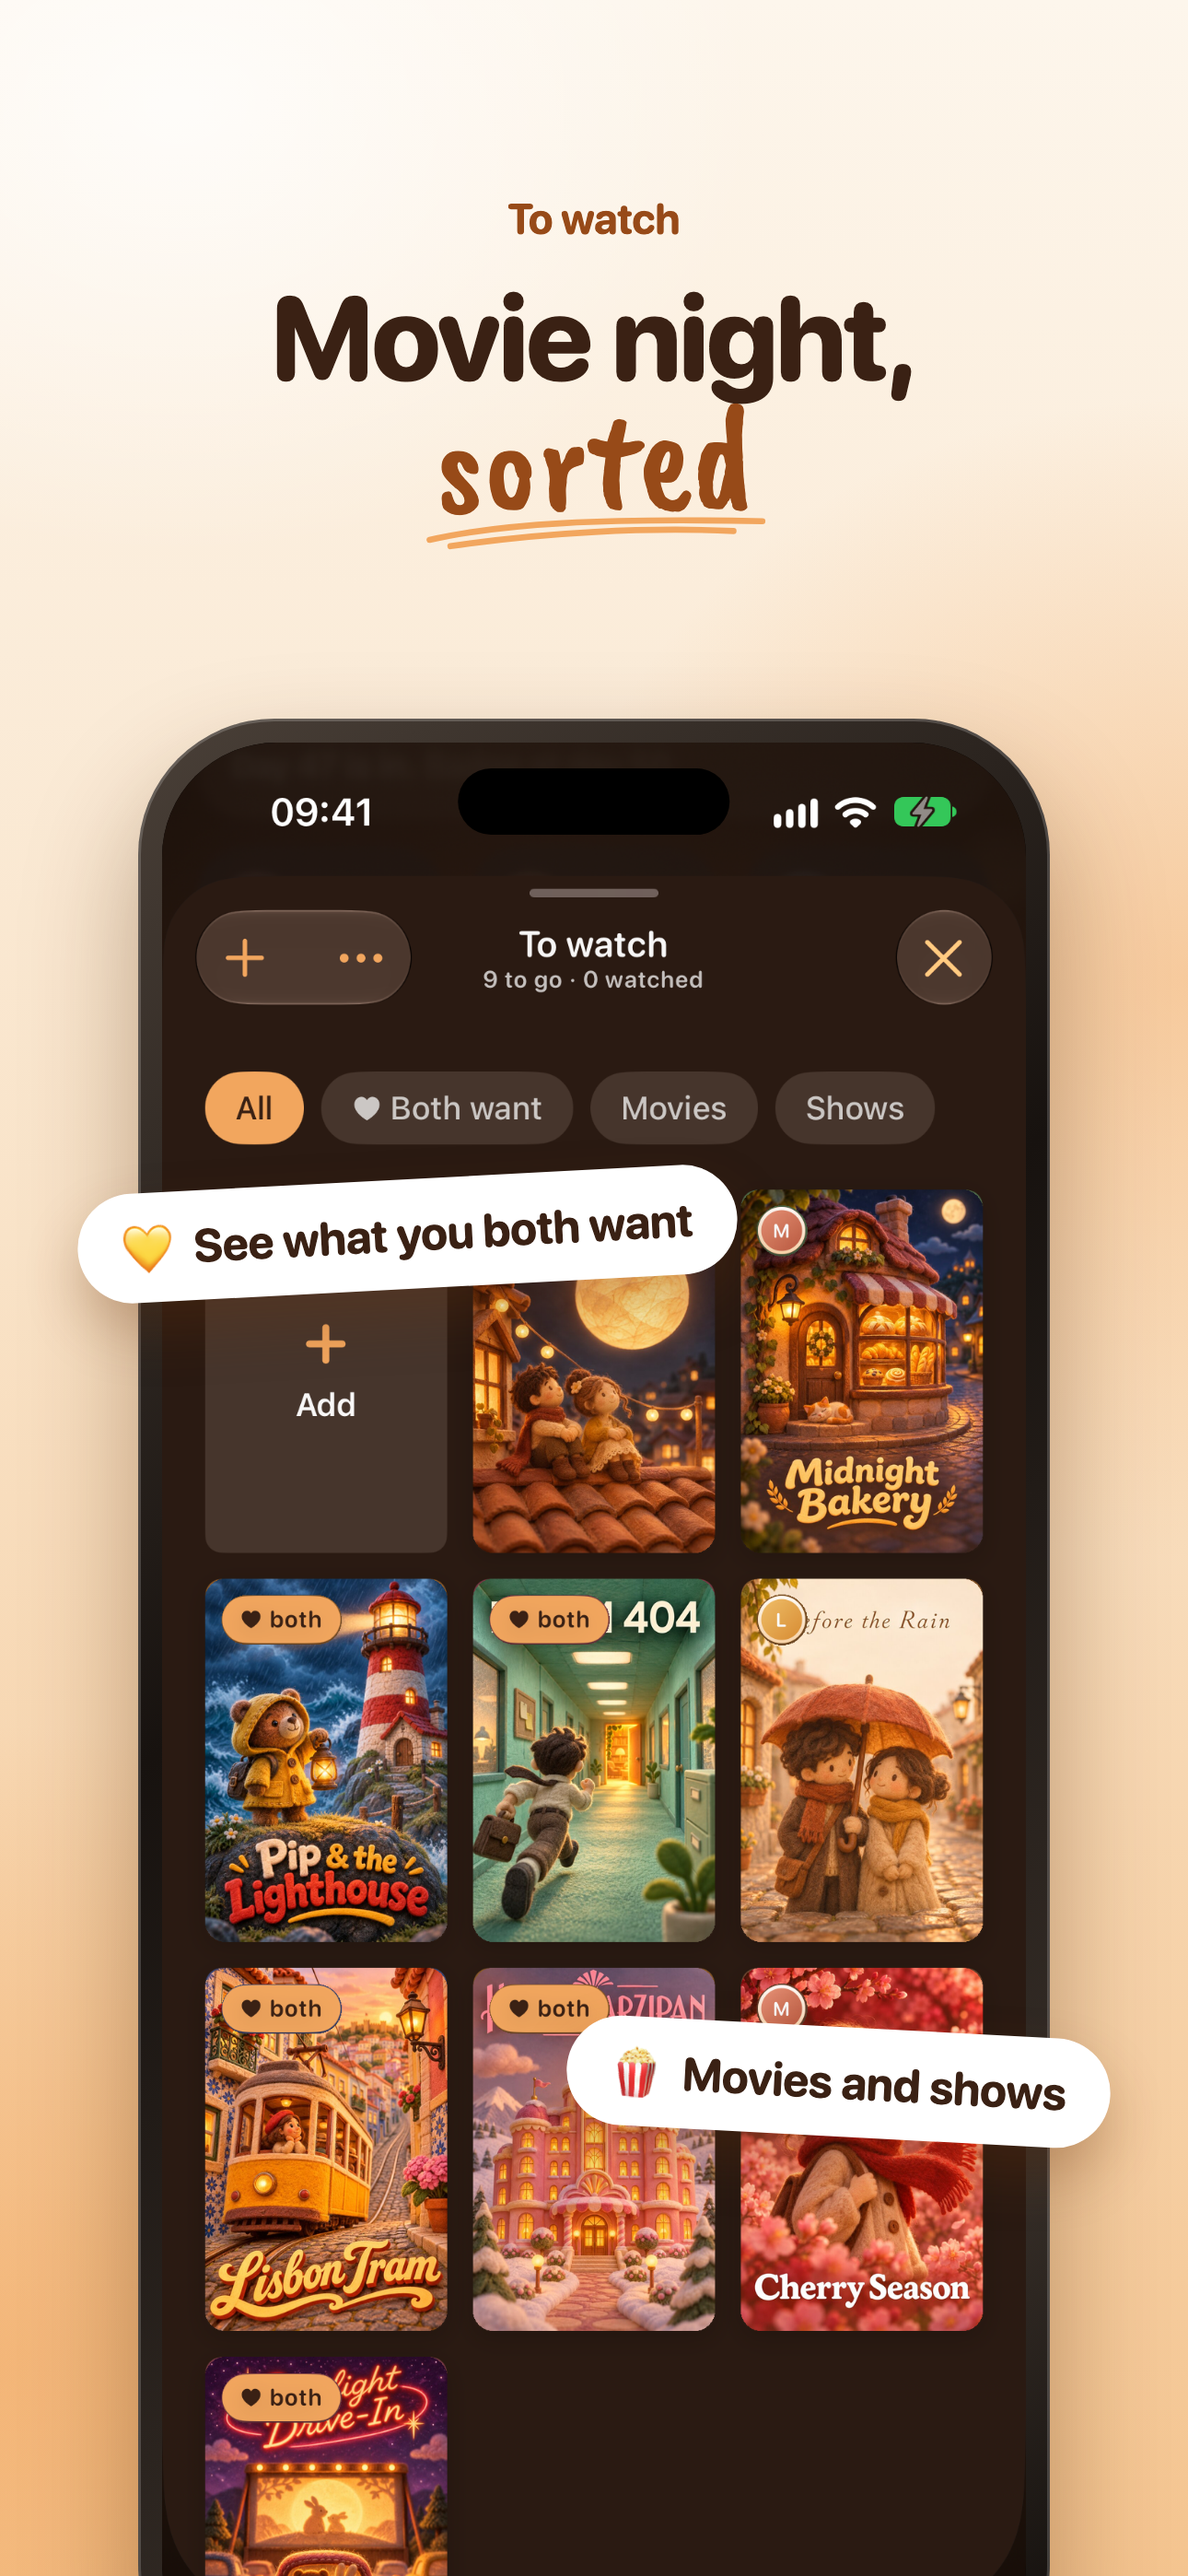
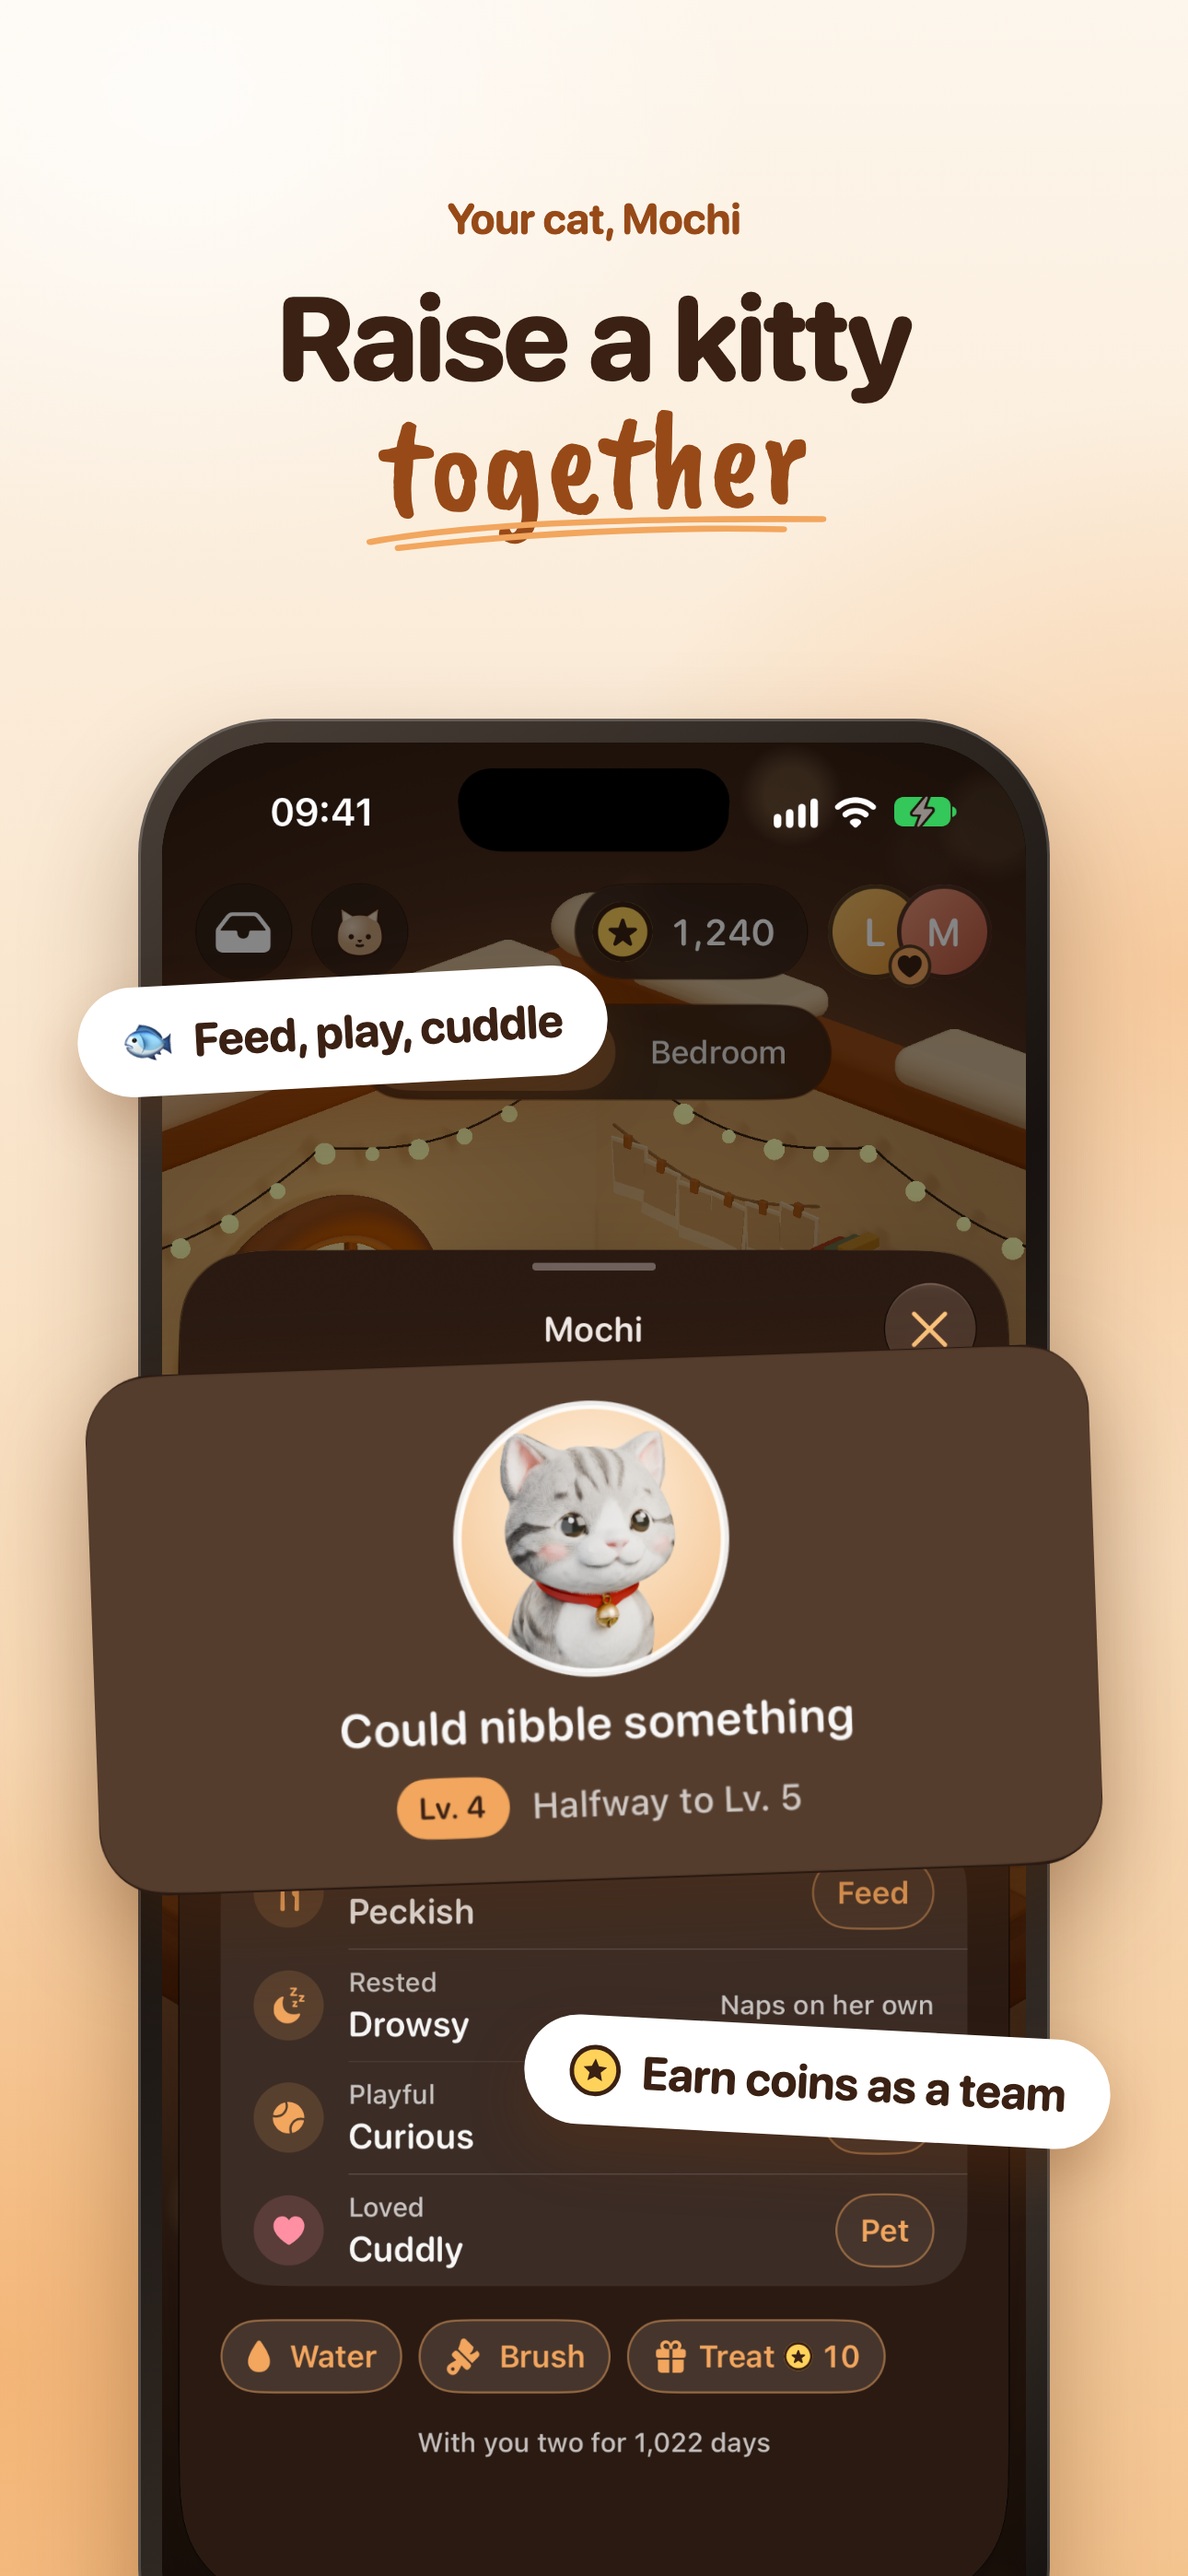
docs(app-store): order the screenshots by feature priority and rewrite the captions
Streak and Moments move up to shots 2 and 3, the ones search results show;
groceries moves to 7. Captions lead with what the couple gets.

diff --git a/docs/images/app-store/source/index.html b/docs/images/app-store/source/index.html
@@ -282,18 +282,46 @@
       <!-- 1 · what it is: a little home the two of you share -->
       <section class="slide night" id="s1">
         <div class="copy">
-          <div class="eyebrow">For the two of you</div>
-          <h1>A tiny home<br />just for <span class="s">us two</span></h1>
+          <div class="eyebrow">Just the two of you</div>
+          <h1>A cozy home<br />for <span class="s">us two</span></h1>
         </div>
         <div class="phone">
           <div class="screen"><img src="assets/home.png" /></div>
         </div>
-        <div class="chip l b0 t1"><span class="em">🏡</span>One shared room</div>
-        <div class="chip r b1 t2"><span class="em">💛</span>Always in sync</div>
+        <div class="chip l b0 t1"><span class="em">🏡</span>Your own little room</div>
+        <div class="chip r b1 t2"><span class="em">💛</span>Live on both phones</div>
       </section>
-
-      <!-- 2 · the pet you raise together -->
+      <!-- 2 · days together and the streak -->
       <section class="slide" id="s2">
+        <div class="copy">
+          <div class="eyebrow">Daily love streak</div>
+          <h1>Keep the<br /><span class="s">spark</span> alive</h1>
+        </div>
+        <div class="phone">
+          <div class="screen"><img src="assets/us.png" /></div>
+        </div>
+        <div class="float pop" style="width: 1100px; left: 95px; top: 1054px">
+          <img src="assets/us-card.png" />
+        </div>
+        <div class="chip r b0 t2"><span class="em">🔥</span>One small thing a day</div>
+        <div class="chip wide t1" style="top: 2400px">
+          <span class="em">🎲</span>Date ideas, wishlists, games for two
+        </div>
+      </section>
+      <!-- 3 · moments -->
+      <section class="slide" id="s3">
+        <div class="copy">
+          <div class="eyebrow">Moments</div>
+          <h1>Share your<br /><span class="s">little moments</span></h1>
+        </div>
+        <div class="phone">
+          <div class="screen"><img src="assets/moments.png" /></div>
+        </div>
+        <div class="chip r b0 t2"><span class="em">📸</span>Snap it, they see it</div>
+        <div class="chip l row0 t1"><span class="em">🖼</span>Pin favorites to Mochi’s wall</div>
+      </section>
+      <!-- 4 · the pet you raise together -->
+      <section class="slide" id="s4">
         <div class="copy">
           <div class="eyebrow">Your cat, Mochi</div>
           <h1>Raise a kitty<br /><span class="s">together</span></h1>
@@ -315,11 +343,36 @@
           >Earn coins as a team
         </div>
       </section>
-
-      <!-- 3 · shared lists that are actually useful -->
-      <section class="slide" id="s3">
+      <!-- 5 · movie night -->
+      <section class="slide" id="s5">
         <div class="copy">
-          <div class="eyebrow">Shared lists</div>
+          <div class="eyebrow">To watch</div>
+          <h1>Pick a movie<br />you <span class="s">both</span> want</h1>
+        </div>
+        <div class="phone">
+          <div class="screen"><img src="assets/watch.png" /></div>
+        </div>
+        <div class="chip l row1 t1"><span class="em">💛</span>See what you both want</div>
+        <div class="chip r b1 t2"><span class="em">🍿</span>Movies and shows</div>
+      </section>
+      <!-- 6 · places to go -->
+      <section class="slide" id="s6">
+        <div class="copy">
+          <div class="eyebrow">Places to go</div>
+          <h1>Dream up your<br /><span class="s">next trip</span></h1>
+        </div>
+        <div class="phone">
+          <div class="screen"><img src="assets/places.png" /></div>
+        </div>
+        <div class="chip r t2" style="top: 1590px">
+          <span class="em">🗺</span>Every country you’ve seen
+        </div>
+        <div class="chip l b1 t1"><span class="em">✈</span>Save where to go next</div>
+      </section>
+      <!-- 7 · shared lists that are actually useful -->
+      <section class="slide" id="s7">
+        <div class="copy">
+          <div class="eyebrow">Groceries</div>
           <h1>One list,<br /><span class="s">both</span> phones</h1>
         </div>
         <div class="phone">
@@ -328,64 +381,6 @@
         <div class="chip r row0 t2"><span class="em">🛒</span>Sorted by aisle</div>
         <div class="chip l b2 t1"><span class="dot"></span>See who added what</div>
       </section>
-
-      <!-- 4 · movie night -->
-      <section class="slide" id="s4">
-        <div class="copy">
-          <div class="eyebrow">To watch</div>
-          <h1>Movie night,<br /><span class="s">sorted</span></h1>
-        </div>
-        <div class="phone">
-          <div class="screen"><img src="assets/watch.png" /></div>
-        </div>
-        <div class="chip l row1 t1"><span class="em">💛</span>See what you both want</div>
-        <div class="chip r b1 t2"><span class="em">🍿</span>Movies and shows</div>
-      </section>
-
-      <!-- 5 · places to go -->
-      <section class="slide" id="s5">
-        <div class="copy">
-          <div class="eyebrow">Places to go</div>
-          <h1>Every trip,<br />on <span class="s">one map</span></h1>
-        </div>
-        <div class="phone">
-          <div class="screen"><img src="assets/places.png" /></div>
-        </div>
-        <div class="chip r t2" style="top: 1590px"><span class="em">🗺</span>Where you’ve been</div>
-        <div class="chip l b1 t1"><span class="em">✈</span>Where to go next</div>
-      </section>
-
-      <!-- 6 · days together and the streak -->
-      <section class="slide" id="s6">
-        <div class="copy">
-          <div class="eyebrow">Days together</div>
-          <h1>Keep the<br /><span class="s">spark</span> going</h1>
-        </div>
-        <div class="phone">
-          <div class="screen"><img src="assets/us.png" /></div>
-        </div>
-        <div class="float pop" style="width: 1100px; left: 95px; top: 1054px">
-          <img src="assets/us-card.png" />
-        </div>
-        <div class="chip r b0 t2"><span class="em">🔥</span>A daily love streak</div>
-        <div class="chip wide t1" style="top: 2400px">
-          <span class="em">🎲</span>Date ideas, wishlists, games
-        </div>
-      </section>
-
-      <!-- 7 · moments -->
-      <section class="slide" id="s7">
-        <div class="copy">
-          <div class="eyebrow">Moments</div>
-          <h1>Little moments,<br /><span class="s">kept</span></h1>
-        </div>
-        <div class="phone">
-          <div class="screen"><img src="assets/moments.png" /></div>
-        </div>
-        <div class="chip r b0 t2"><span class="em">📸</span>Send a photo</div>
-        <div class="chip l row0 t1"><span class="em">🖼</span>Hang it on Mochi’s wall</div>
-      </section>
-
       <!-- 8 · decorate -->
       <section class="slide night" id="s8">
         <div class="copy">

diff --git a/docs/images/app-store/source/README.md b/docs/images/app-store/source/README.md
@@ -18,15 +18,18 @@ app's SF Pro Rounded and the colours are `Palette.swift`'s.
 
 ## The set
 
+Ordered by what matters most to a couple deciding to install: the shared home, the daily streak, Moments,
+then Mochi and the everyday tools. The first three are what App Store search results show.
+
 | # | Sells | Headline | Screen |
 | --- | --- | --- | --- |
-| 1 | What it is | A tiny home just for *us two* | Home: the room with Mochi |
-| 2 | The pet you share | Raise a kitty *together* | Mochi's sheet |
-| 3 | Everyday use | One list, *both* phones | Groceries by aisle |
-| 4 | Movie night | Movie night, *sorted* | To watch posters with "both" badges |
-| 5 | Plans and trips | Every trip, on *one map* | Places to go: map, flags |
-| 6 | The spark | Keep the *spark* going | Us: days together, streak (card enlarged) |
-| 7 | Moments | Little moments, *kept* | Moments: Mochi's wall and photos |
+| 1 | What it is | A cozy home for *us two* | Home: the room with Mochi |
+| 2 | The daily habit | Keep the *spark* alive | Us: days together, love streak (card enlarged) |
+| 3 | Sharing moments | Share your *little moments* | Moments: Mochi's wall and photos |
+| 4 | The pet you share | Raise a kitty *together* | Mochi's sheet |
+| 5 | Movie night | Pick a movie you *both* want | To watch posters with "both" badges |
+| 6 | Trips | Dream up your *next trip* | Places to go: map, flags |
+| 7 | Everyday use | One list, *both* phones | Groceries by aisle |
 | 8 | Make it yours | Make the room *yours* | Shop: Today |
 
 Shot 4 shows no real films: the To watch titles are made up, and their posters in `posters/` were made with
